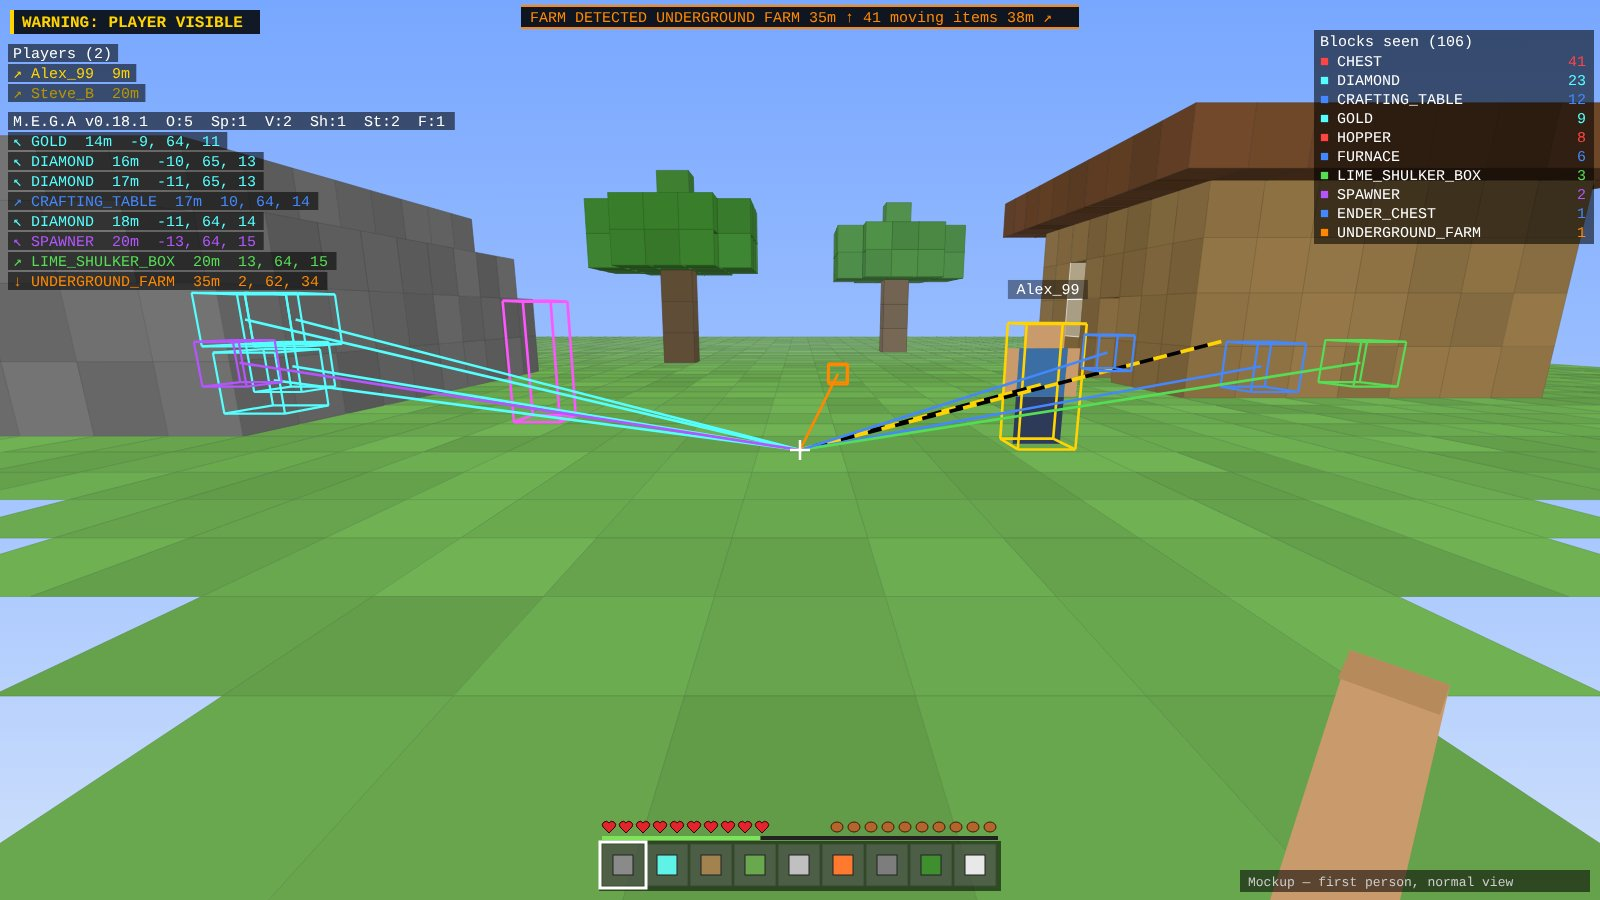
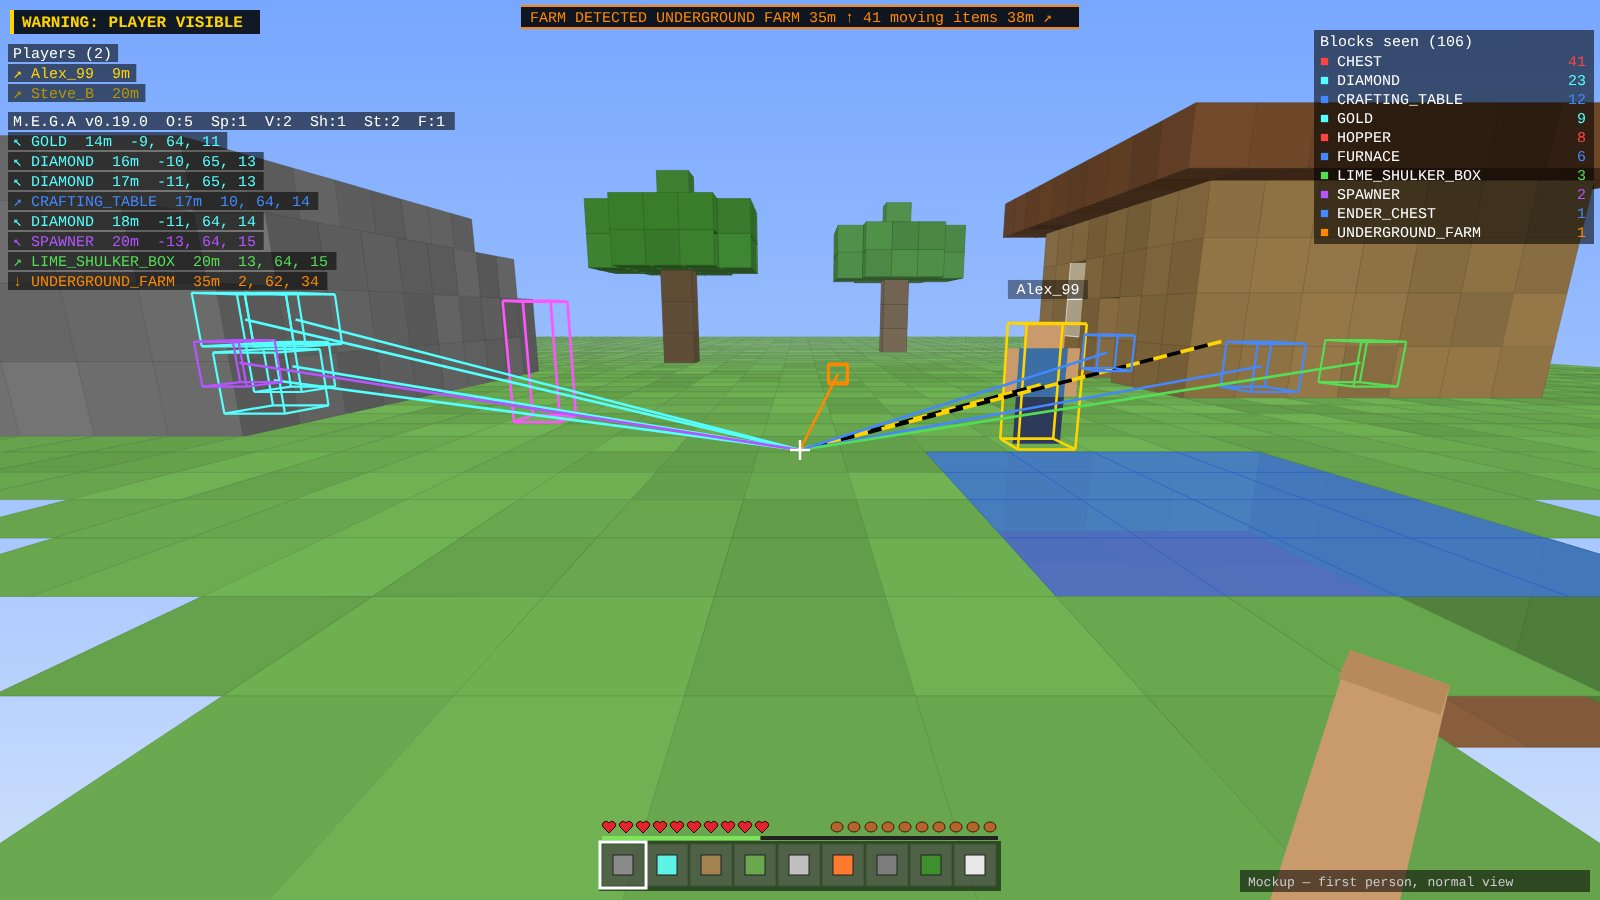
X-ray: outline lava and water (v0.19.0)
Claude-Session: https://claude.ai/code/session_012byuoRshZLuMMsfoWaBLd3

Changed region(s): [[0.5625, 0.4978, 1.0, 0.84]]

diff --git a/src/main/java/dev/mega/client/MegaXray.java b/src/main/java/dev/mega/client/MegaXray.java
@@ -5,6 +5,8 @@ import net.minecraft.block.BlockState;
 import net.minecraft.block.Blocks;
 import net.minecraft.block.ShulkerBoxBlock;
 import net.minecraft.client.MinecraftClient;
+import net.minecraft.fluid.FluidState;
+import net.minecraft.registry.tag.FluidTags;
 import net.minecraft.util.math.BlockPos;
 import net.minecraft.util.math.Direction;
 import net.minecraft.world.World;
@@ -69,7 +71,7 @@ public final class MegaXray {
     /** Rescans ghost outlines every 10 ticks within config.xrayGhostRange (cube around you). */
     static void scanGhosts(MinecraftClient client) {
         MegaConfig cfg = MegaClient.config;
-        if (!active || !cfg.xrayGhost || client.world == null || client.player == null) { ghostCount = 0; return; }
+        if (!active || (!cfg.xrayGhost && !cfg.xrayFluids) || client.world == null || client.player == null) { ghostCount = 0; return; }
         if (++ghostTimer < 10) return;
         ghostTimer = 0;
         World world = client.world;
@@ -84,6 +86,24 @@ public final class MegaXray {
             m.set(c.getX() + dx, c.getY() + dy, c.getZ() + dz);
             BlockState st = world.getBlockState(m);
             if (st.isAir() || isVisible(st)) continue;
+            // Lava and water: outline every fluid block whose side touches something that isn't the same fluid
+            FluidState fs = st.getFluidState();
+            if (!fs.isEmpty()) {
+                if (!cfg.xrayFluids) continue;
+                boolean lava = fs.isIn(FluidTags.LAVA);
+                boolean edge = false;
+                for (Direction d : DIRS) {
+                    nb.set(m.getX() + d.getOffsetX(), m.getY() + d.getOffsetY(), m.getZ() + d.getOffsetZ());
+                    FluidState nf = world.getBlockState(nb).getFluidState();
+                    if (nf.isEmpty() || nf.isIn(FluidTags.LAVA) != lava) { edge = true; break; }
+                }
+                if (!edge) continue;
+                pos[n] = m.asLong();
+                col[n] = lava ? 0xFFFF5A00 : 0xFF3F76E4;
+                if (++n >= max) break outer;
+                continue;
+            }
+            if (!cfg.xrayGhost) continue;
             // solid cubes, plus see-through full blocks (leaves, glass, stained/tinted glass, ice, slime)
             if (!st.isOpaqueFullCube() && !st.isFullCube(world, m)) continue;
             boolean exposed = false;

diff --git a/src/main/java/dev/mega/client/MegaScreen.java b/src/main/java/dev/mega/client/MegaScreen.java
@@ -51,6 +51,7 @@ final class MegaScreen extends Screen {
             {"Outline sneaky players", (Supplier<Boolean>) () -> c.outlineSneaky, (Consumer<Boolean>) v -> c.outlineSneaky = v},
             {"M.E.G.A X-ray", (Supplier<Boolean>) () -> c.xray, (Consumer<Boolean>) v -> { c.xray = v; MegaClient.applyConfig(); }},
             {"X-ray outlines", (Supplier<Boolean>) () -> c.xrayGhost, (Consumer<Boolean>) v -> c.xrayGhost = v},
+            {"X-ray lava & water", (Supplier<Boolean>) () -> c.xrayFluids, (Consumer<Boolean>) v -> c.xrayFluids = v},
             {"Blocks seen panel", (Supplier<Boolean>) () -> c.blockCountPanel, (Consumer<Boolean>) v -> c.blockCountPanel = v},
         };
         for (int i = 0; i < toggles.length; i++) {

diff --git a/src/main/java/dev/mega/client/MegaConfig.java b/src/main/java/dev/mega/client/MegaConfig.java
@@ -37,6 +37,8 @@ public final class MegaConfig {
     public boolean xrayEdges = false;
     /** Hidden blocks next to caves/air keep an outline in their own colour, so you can see the terrain shape. */
     public boolean xrayGhost = true;
+    /** In X-ray, lava (orange) and water (blue) near you are outlined so you can see them through hidden blocks. */
+    public boolean xrayFluids = true;
     public int xrayGhostRange = 12;
     public int xrayGhostMax = 6000;
     /** Players the mod never detects (no line, not listed, no warning). Case-insensitive. */

diff --git a/src/main/java/dev/mega/client/MegaTracers.java b/src/main/java/dev/mega/client/MegaTracers.java
@@ -67,7 +67,7 @@ final class MegaTracers {
         }
 
         // X-ray ghost outlines: hidden blocks next to air, in their own colour
-        if (MegaXray.active() && cfg.xrayGhost) {
+        if (MegaXray.active() && (cfg.xrayGhost || cfg.xrayFluids)) {
             long[] gp = MegaXray.ghostPos;
             int[] gc = MegaXray.ghostColor;
             int gn = Math.min(MegaXray.ghostCount, Math.min(gp.length, gc.length));

diff --git a/README.md b/README.md
@@ -14,7 +14,7 @@ Client-side ESP, tracers, X-ray, farm alerts and block counter for the server.
 1. No griefing
 2. No spawn camping
 3. No TP killing
-4. ESPs are allowed **only after the server owner has checked them**. The HUD shows the version (`M.E.G.A v0.18.1`) so the owner can confirm which approved build a player is running.
+4. ESPs are allowed **only after the server owner has checked them**. The HUD shows the version (`M.E.G.A v0.19.0`) so the owner can confirm which approved build a player is running.
 5. Duping is allowed **only while the server owner is watching**.
 
 ## Install
@@ -52,7 +52,9 @@ Client-side only: nothing is installed on the server, and other players don't ne
 ### X-ray: see-through blocks
 ![X-ray blocks](docs/images/xray-blocks.png)
 
-Outlines show within 12 blocks of you, only where a block touches air. Small shapes like torches, flowers, tall grass, rails and signs stay drawn. Water and lava stay visible.
+Outlines show within 12 blocks of you, only where a block touches air. Small shapes like torches, flowers, tall grass, rails and signs stay drawn.
+
+**Lava and water:** they still render normally, and in X-ray the edges of every lava pool (orange) and water body (blue) within 12 blocks are outlined, so you can see them through the hidden stone. Panel button: *X-ray lava & water*.
 
 ## Settings panel (press 0)
 ![Settings panel](docs/images/panel.png)
@@ -92,6 +94,7 @@ To change it, open `tools/spawner-editor.html`, paint a new one, and turn the co
 | ignoredItems | stone, cobblestone, cobbled deepslate, deepslate, gravel | never count for the moving-items alert |
 | xray | false | M.E.G.A X-ray |
 | xrayGhost / xrayGhostRange / xrayGhostMax | true / 12 / 6000 | outlines of hidden blocks |
+| xrayFluids | true | lava (orange) and water (blue) outlines in X-ray |
 | xrayEdges / xrayMax | false / 3000 | optional coloured edges round X-ray blocks |
 
 ## Build
